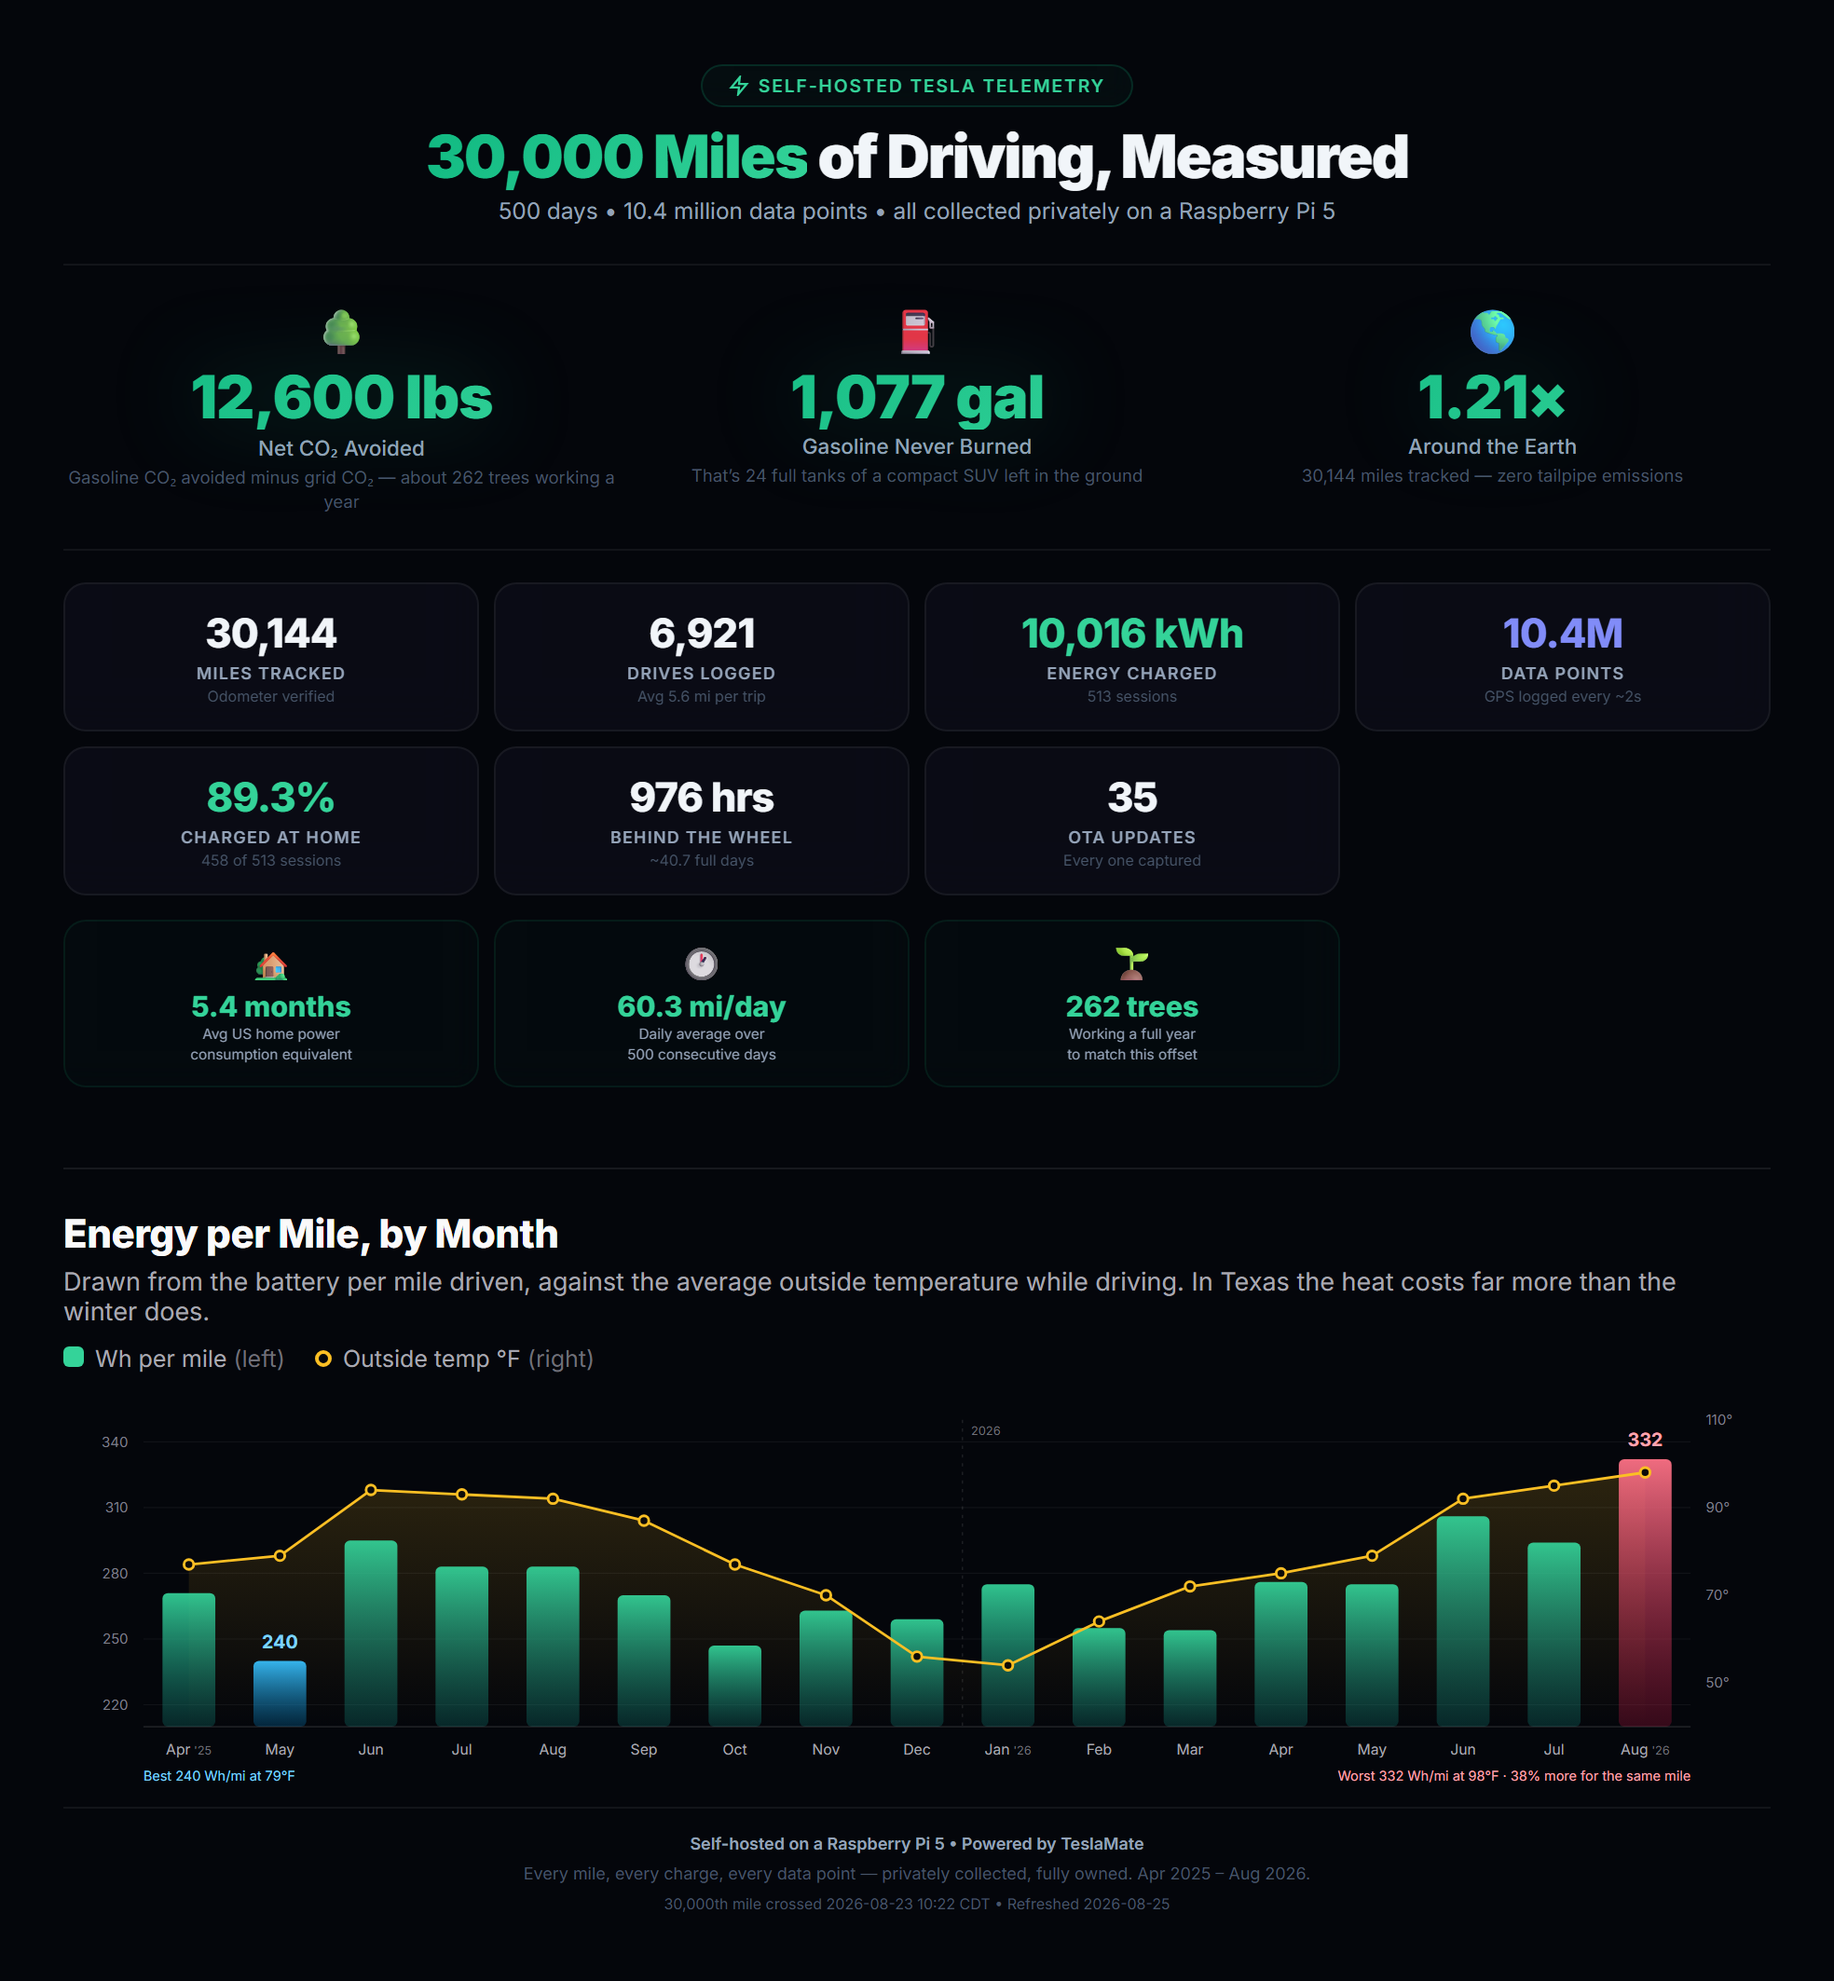
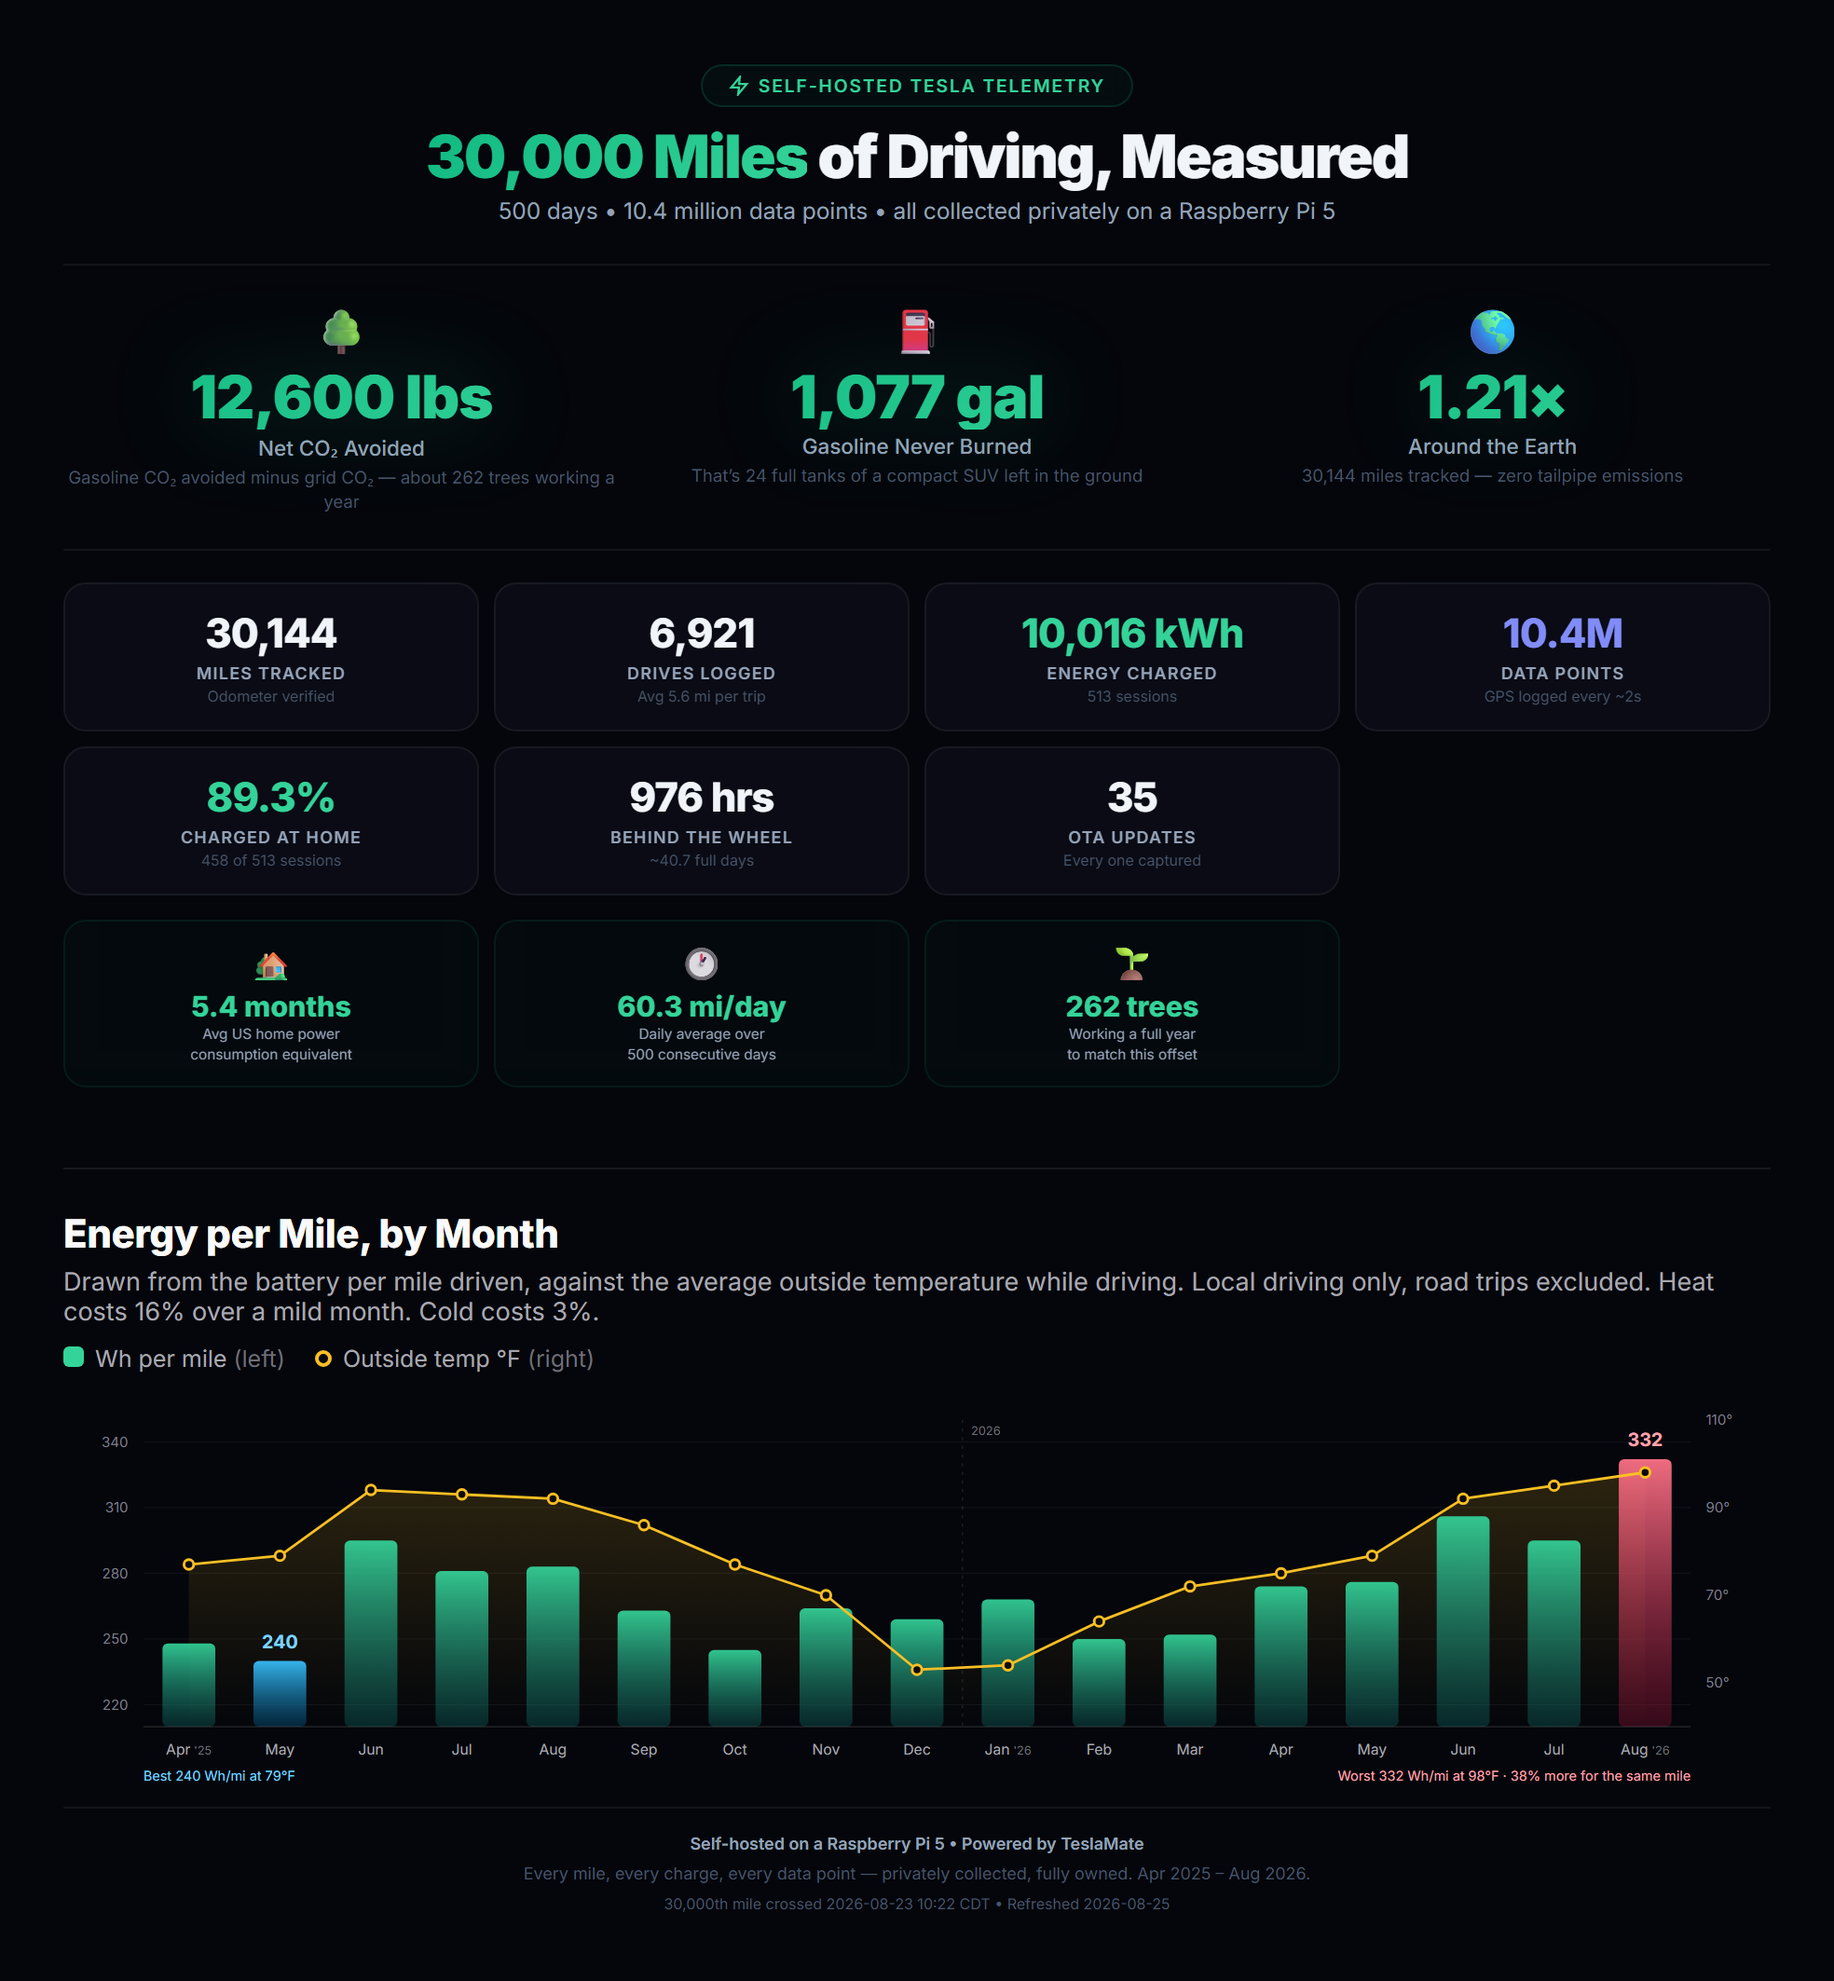
data(blog): restrict the energy-per-mile chart to local driving
The temperature series averaged the car's own thermometer across every drive,
including road trips that leave the region and bring their own weather. That
was moving individual months by up to 35 Wh per mile and blurring the seasonal
signal the chart exists to show.

Drives are now filtered to those starting within roughly 40 miles of the median
start point, derived from the data itself so no coordinates are hardcoded or
published. That is 4,668 of 4,863 drives and 22,894 of 27,247 miles; the 195
excluded drives account for 4,353 miles.

The corrected split is a better finding than the one it replaces: months above
90F average 299 Wh/mi, mild months 70-80F average 257, and cold months average
264. Heat costs 16 percent, cold costs 3. Article and chart both updated, and
the chart now states the local-only scope.

Verified: astro check 0 errors, 123 vitest, unslop scanner 0, no location names
or coordinates in the published article or image.

diff --git a/apps/web/src/content/blog/500-days-30000-miles.md b/apps/web/src/content/blog/500-days-30000-miles.md
@@ -45,7 +45,9 @@ No dashboard I have ever seen shows both. They show the flattering one.
 
 Breaking that number down by month is where it gets genuinely interesting, and it runs against the story everyone tells about electric cars. The received wisdom is that cold weather kills your range. In Texas it is the heat that does it. My most efficient month averaged **240 Wh per mile** at a mild 79 degrees. My worst was this August at **332 Wh per mile**, when the average temperature while driving was 98. That is **38 percent more energy for the same mile**, bought entirely by air conditioning and a battery working to keep itself cool.
 
-Winter barely registers here by comparison, because a Texas winter is not much of a winter. December and February, at 56 and 64 degrees, came in at 259 and 255 Wh per mile, which is close to the best months of the year. Sorted by temperature, the months above 90 degrees average 299 Wh per mile against 260 for the mild ones.
+Winter barely registers by comparison, because a Texas winter is not much of a winter. December and January, at 53 and 54 degrees, came in at 259 and 268 Wh per mile, within a few percent of the mildest months of the year. Sorted by temperature the split is stark: months above 90 degrees average 299 Wh per mile, mild months between 70 and 80 average 257, and the cold months average 264. **Heat costs me 16 percent. Cold costs me 3.** Everything I had absorbed about electric cars said it would be the other way round.
+
+One methodology note, because it changes the numbers. These are local drives only. Road trips leave the region and take their own weather with them, and letting them into the average was quietly dragging months around by as much as 35 Wh per mile. Filtering to the driving I actually do day to day is what made the pattern legible.
 
 Five hundred days is what makes that visible. One summer is an anecdote. Two summers, either side of a winter, is a pattern you can point at.
 
